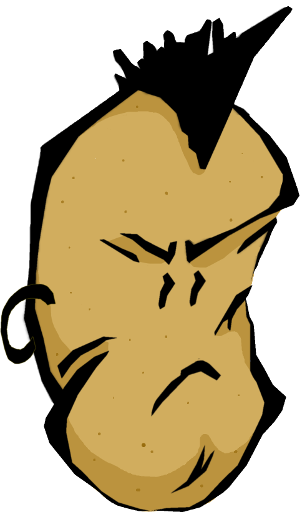
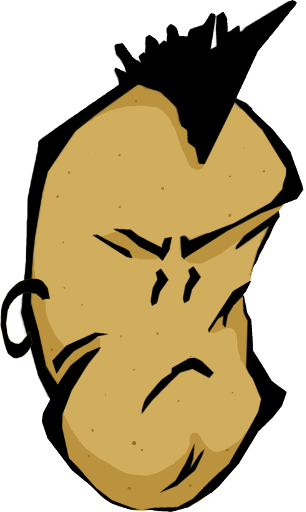
Fixing smooth animation for Patate.

diff --git a/zerozeroduck/src/fr/odai/zerozeroduck/model/Patate.java b/zerozeroduck/src/fr/odai/zerozeroduck/model/Patate.java
@@ -14,10 +14,14 @@ public class Patate {
 	static final float SPEED = 2f;	// unit per second
 	static final float JUMP_VELOCITY = 1f;
 	public static final float SIZE = 0.5f; // half a unit
+	
+	static final float ANIM_PERIOD = 60f / World.BPM / 2;
 			
 	float       stateTime = 0;
+	float 		animTime = 0;
 	Vector2 	position = new Vector2();
 	Vector2     velocity = new Vector2(1, 0);
+	Vector2     bouciness = new Vector2(0, 0.2f);
 	Rectangle 	bounds = new Rectangle();
 	State		state = State.WALKING;
 	boolean		facingLeft = true;
@@ -33,7 +37,7 @@ public class Patate {
 	}
 
 	public Vector2 getPosition() {
-		return position;
+		return position.cpy().add(bouciness.tmp().mul(Math.abs((float) Math.sin((animTime / ANIM_PERIOD * Math.PI)))));
 	}
 	
 	public State getState() {
@@ -58,6 +62,9 @@ public class Patate {
 	
 	public void update(float delta) {
 		stateTime += delta;
+		
+		animTime += delta;
+		if(animTime > ANIM_PERIOD) animTime -= ANIM_PERIOD;
 		
 		if(state == State.WALKING) {
 			position.add(velocity.tmp().mul(delta));

diff --git a/zerozeroduck/src/fr/odai/zerozeroduck/GameScreen.java b/zerozeroduck/src/fr/odai/zerozeroduck/GameScreen.java
@@ -26,7 +26,7 @@ public class GameScreen implements Screen, InputProcessor {
 	@Override
 	public void show() {
 		world = new World();
-		renderer = new WorldRenderer(world, true);
+		renderer = new WorldRenderer(world, false);
 		controller = new MainController(world);
 		Gdx.input.setInputProcessor(this);
 	}

diff --git a/zerozeroduck/src/fr/odai/zerozeroduck/WorldRenderer.java b/zerozeroduck/src/fr/odai/zerozeroduck/WorldRenderer.java
@@ -40,7 +40,7 @@ public class WorldRenderer {
 	private TextureRegion patateFrame;
 
 
-	private static final float PATATE_RUNNING_FRAME_DURATION = World.BPM/8;
+	private static final float PATATE_RUNNING_FRAME_DURATION = 60f / World.BPM / 8;
 	private Animation walkRightPatate;
 
 	/** for debug rendering **/

diff --git a/zerozeroduck/src/fr/odai/zerozeroduck/model/World.java b/zerozeroduck/src/fr/odai/zerozeroduck/model/World.java
@@ -8,7 +8,7 @@ import fr.odai.zerozeroduck.controller.MainController;
 
 public class World {
 	
-	public static final float BPM = 0.7f;
+	public static final int BPM = 85;
 	
 	
 	/** The blocks making up the world **/
